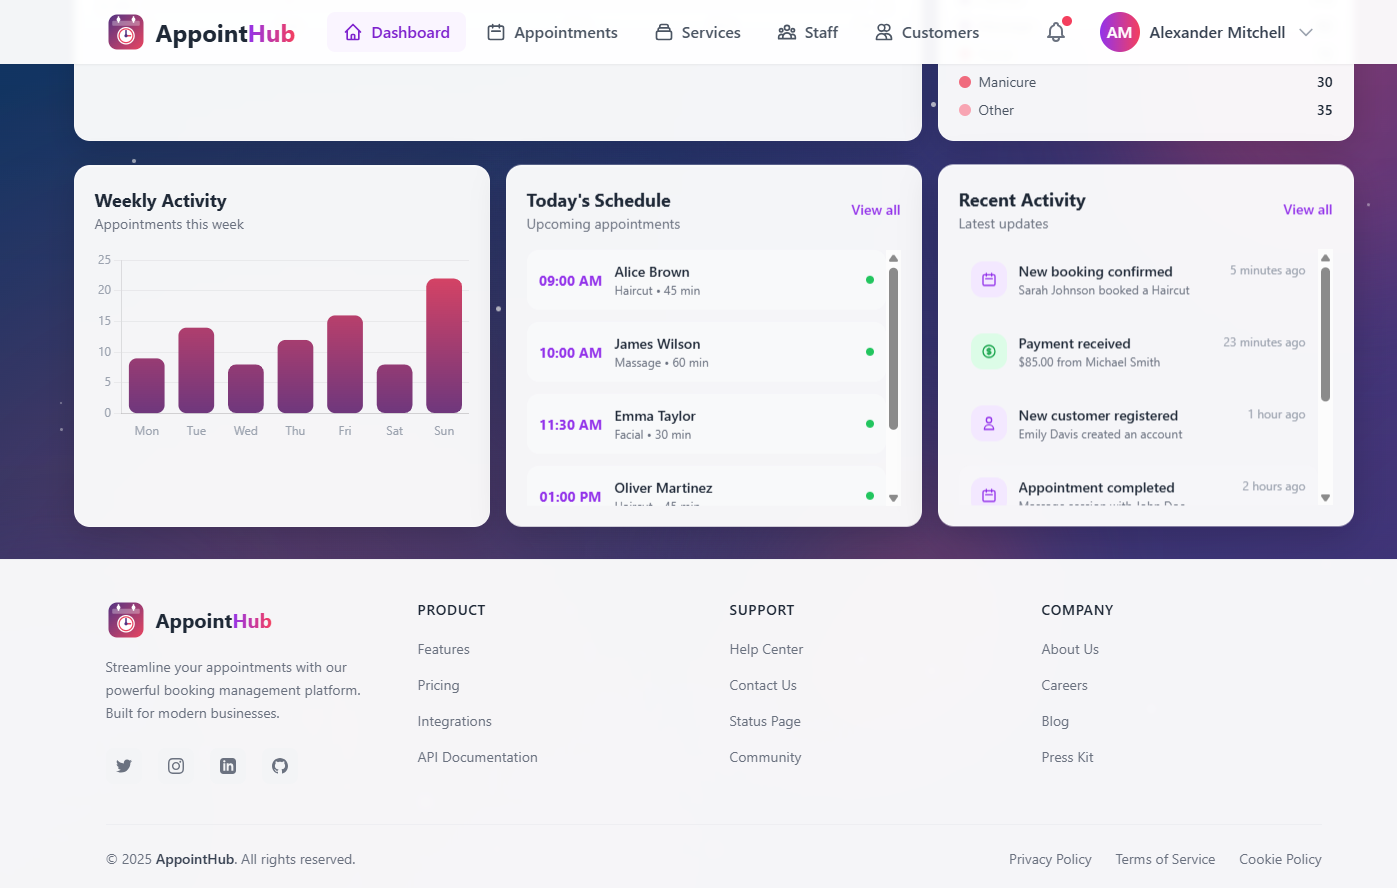
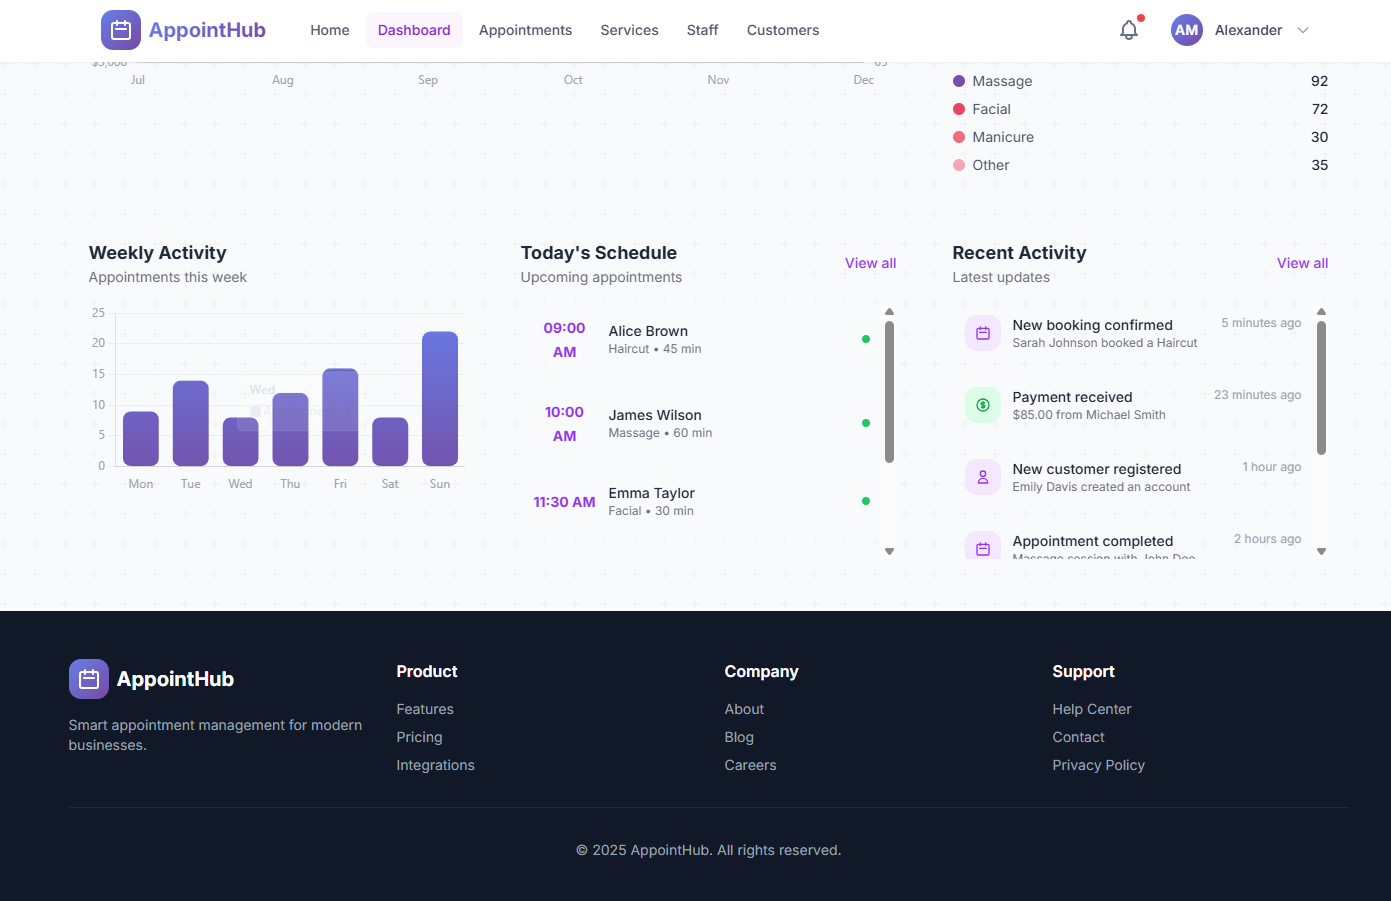
Update README with new screenshots and features, fix chart colors

diff --git a/templates/dashboard/index.html b/templates/dashboard/index.html
@@ -296,8 +296,8 @@
     // Revenue Chart
     const revenueCtx = document.getElementById('revenueChart').getContext('2d');
     const revenueGradient = revenueCtx.createLinearGradient(0, 0, 0, 250);
-    revenueGradient.addColorStop(0, 'rgba(83, 52, 131, 0.3)');
-    revenueGradient.addColorStop(1, 'rgba(83, 52, 131, 0)');
+    revenueGradient.addColorStop(0, 'rgba(102, 126, 234, 0.3)');
+    revenueGradient.addColorStop(1, 'rgba(102, 126, 234, 0)');
     
     new Chart(revenueCtx, {
         type: 'line',
@@ -306,11 +306,11 @@
             datasets: [{
                 label: 'Revenue',
                 data: {{ revenue_data|safe }},
-                borderColor: '#533483',
+                borderColor: '#667eea',
                 backgroundColor: revenueGradient,
                 fill: true,
                 tension: 0.4,
-                pointBackgroundColor: '#533483',
+                pointBackgroundColor: '#667eea',
                 pointBorderColor: '#fff',
                 pointBorderWidth: 2,
                 pointRadius: 5,
@@ -318,11 +318,11 @@
             }, {
                 label: 'Bookings',
                 data: {{ bookings_data|safe }},
-                borderColor: '#e94560',
+                borderColor: '#764ba2',
                 backgroundColor: 'transparent',
                 borderDash: [5, 5],
                 tension: 0.4,
-                pointBackgroundColor: '#e94560',
+                pointBackgroundColor: '#764ba2',
                 pointBorderColor: '#fff',
                 pointBorderWidth: 2,
                 pointRadius: 4,
@@ -429,8 +429,8 @@
     // Weekly Appointments Bar Chart
     const weeklyCtx = document.getElementById('weeklyChart').getContext('2d');
     const weeklyGradient = weeklyCtx.createLinearGradient(0, 0, 0, 200);
-    weeklyGradient.addColorStop(0, '#e94560');
-    weeklyGradient.addColorStop(1, '#533483');
+    weeklyGradient.addColorStop(0, '#667eea');
+    weeklyGradient.addColorStop(1, '#764ba2');
     
     new Chart(weeklyCtx, {
         type: 'bar',

diff --git a/README.md b/README.md
@@ -31,45 +31,61 @@ AppointHub is a comprehensive appointment scheduling and business management sol
 
 ## ✨ Features
 
+### 🏠 Landing Page
+- Modern, responsive hero section with gradient backgrounds
+- Interactive dashboard preview with animated charts
+- Feature showcase with hover effects
+- Pricing plans (Free, Pro, Enterprise)
+- "How It Works" step-by-step guide
+- Professional footer with social links
+
 ### 📊 Dashboard & Analytics
 - Real-time business metrics and KPIs
-- Revenue tracking with interactive charts
-- Weekly appointment activity visualization
+- Revenue tracking with interactive line charts
+- Weekly appointment activity visualization (bar chart)
 - Popular services distribution (doughnut chart)
 - Today's schedule at a glance
-- Recent activity feed
+- Recent activity feed with live updates
+- Month-to-month navigation
 
 ### 📅 Appointment Management
 - Full CRUD operations for appointments
-- Status tracking (Pending, Confirmed, Completed, Cancelled)
-- Advanced filtering and search
+- Status tracking (Pending, Confirmed, Completed, Cancelled, No-Show)
+- Advanced filtering by date, status, staff, and service
+- Real-time search functionality
 - Date and time slot management
 - Customer and staff assignment
+- Appointment notes and history
 
 ### 💼 Service Management
 - Service catalog with categories
 - Pricing and duration configuration
-- Active/Inactive toggle
+- Active/Inactive status toggle
 - Booking statistics per service
+- Service color coding
+- Category organization
 
 ### 👥 Staff Management
 - Staff profiles with contact information
 - Availability status (Available, Busy, Off)
-- Service assignments
+- Service assignments and specializations
 - Performance ratings and reviews
 - Weekly appointment tracking
+- Working hours configuration
 
 ### 👤 Customer Management
-- Customer database with profiles
+- Customer database with detailed profiles
 - VIP/Regular/New customer segmentation
 - Visit history and spending tracking
 - Contact information management
+- Customer notes and preferences
+- Total visits and lifetime value tracking
 
 ### ⚙ Settings & Preferences
 - Notification preferences (Email, SMS, Reminders)
 - Privacy controls
-- Password management
-- Theme customization (coming soon)
+- Password management with secure reset
+- Profile customization
 - Account management
 
 ### 🔐 Authentication & Security
@@ -77,7 +93,8 @@ AppointHub is a comprehensive appointment scheduling and business management sol
 - Email verification system
 - Password reset with token-based links
 - Session management
-- Role-based access control
+- CSRF protection
+- Clean, modern auth UI
 
 ---
 
@@ -85,37 +102,46 @@ AppointHub is a comprehensive appointment scheduling and business management sol
 
 <div align="center">
 
-### Dashboard
+### 🏠 Homepage
+![Homepage](docs/screenshots/Homepage-1.png)
+*Beautiful landing page with hero section, features, and pricing*
+
+![Homepage Details](docs/screenshots/Homepage-details.png)
+*Feature highlights and "How It Works" section*
+
+![Homepage Dashboard Preview](docs/screenshots/Homepage-dashboard-2.png)
+*Interactive dashboard preview with animated charts*
+
+### 📊 Dashboard
 ![Dashboard](docs/screenshots/Dashboard-1.png)
-*Comprehensive overview with charts, metrics, and quick actions*
+*Comprehensive overview with revenue charts, metrics, and quick actions*
 
-### Dashboard - Bottom Section
 ![Dashboard Bottom](docs/screenshots/Dashboard-2.png)
-*Weekly activity, today's schedule, and recent activity feed*
+*Weekly activity chart, today's schedule, and recent activity feed*
 
-### Appointments
-![Appointments](docs/screenshots/Appointment-page.png)
-*Manage and track all bookings with filtering and search*
+### 📅 Appointments
+![Appointments](docs/screenshots/Appointments-page.png)
+*Manage and track all bookings with advanced filtering and search*
 
-### Services
+### 💼 Services
 ![Services](docs/screenshots/Services-page.png)
-*Service catalog with categories and pricing*
+*Service catalog with categories, pricing, and duration*
 
-### Staff Management
+### 👥 Staff Management
 ![Staff](docs/screenshots/Staff-page.png)
-*Team overview with availability and performance metrics*
+*Team overview with availability status and performance metrics*
 
-### Settings
+### 👤 Customers
+![Customers](docs/screenshots/Customers.png)
+*Customer database with segmentation and visit history*
+
+### ⚙ Settings
 ![Settings](docs/screenshots/User-setting.png)
-*User preferences and account management*
+*User preferences, notifications, and account management*
 
-### Shop Setup
-![Shop Setup](docs/screenshots/Shop-Setup-1.png)
-*Business configuration and contact information*
-
-### Login
+### 🔐 Authentication
 ![Login](docs/screenshots/Login-page.png)
-*Secure authentication with modern UI*
+*Secure authentication with modern, clean UI*
 
 </div>
 
@@ -225,17 +251,19 @@ AppointHub/
 ### Color Palette
 | Color | Hex | Usage |
 |-------|-----|-------|
-| Dark Navy | `#1a1a2e` | Primary background |
-| Deep Blue | `#16213e` | Secondary background |
-| Ocean Blue | `#0f3460` | Accents |
-| Royal Purple | `#533483` | Primary brand |
-| Coral Rose | `#e94560` | Accent/CTA |
+| Indigo | `#667eea` | Primary brand color |
+| Purple | `#764ba2` | Secondary brand color |
+| White | `#ffffff` | Backgrounds |
+| Gray 50 | `#f9fafb` | Page backgrounds |
+| Gray 800 | `#1f2937` | Text |
 
 ### UI Components
-- **Glass Morphism** - Frosted glass effect cards
-- **Gradient Buttons** - Purple to rose gradient CTAs
-- **Animated Backgrounds** - Floating particles, blobs, aurora effects
+- **Clean White Design** - Modern, minimalist white backgrounds
+- **Gradient Buttons** - Indigo to purple gradient CTAs
+- **Animated Charts** - Growing bars and smooth transitions
+- **Hover Effects** - Subtle scale and shadow on cards
 - **Responsive Grid** - Mobile-first layout system
+- **Inter Font** - Clean, modern typography
 
 ---
 
